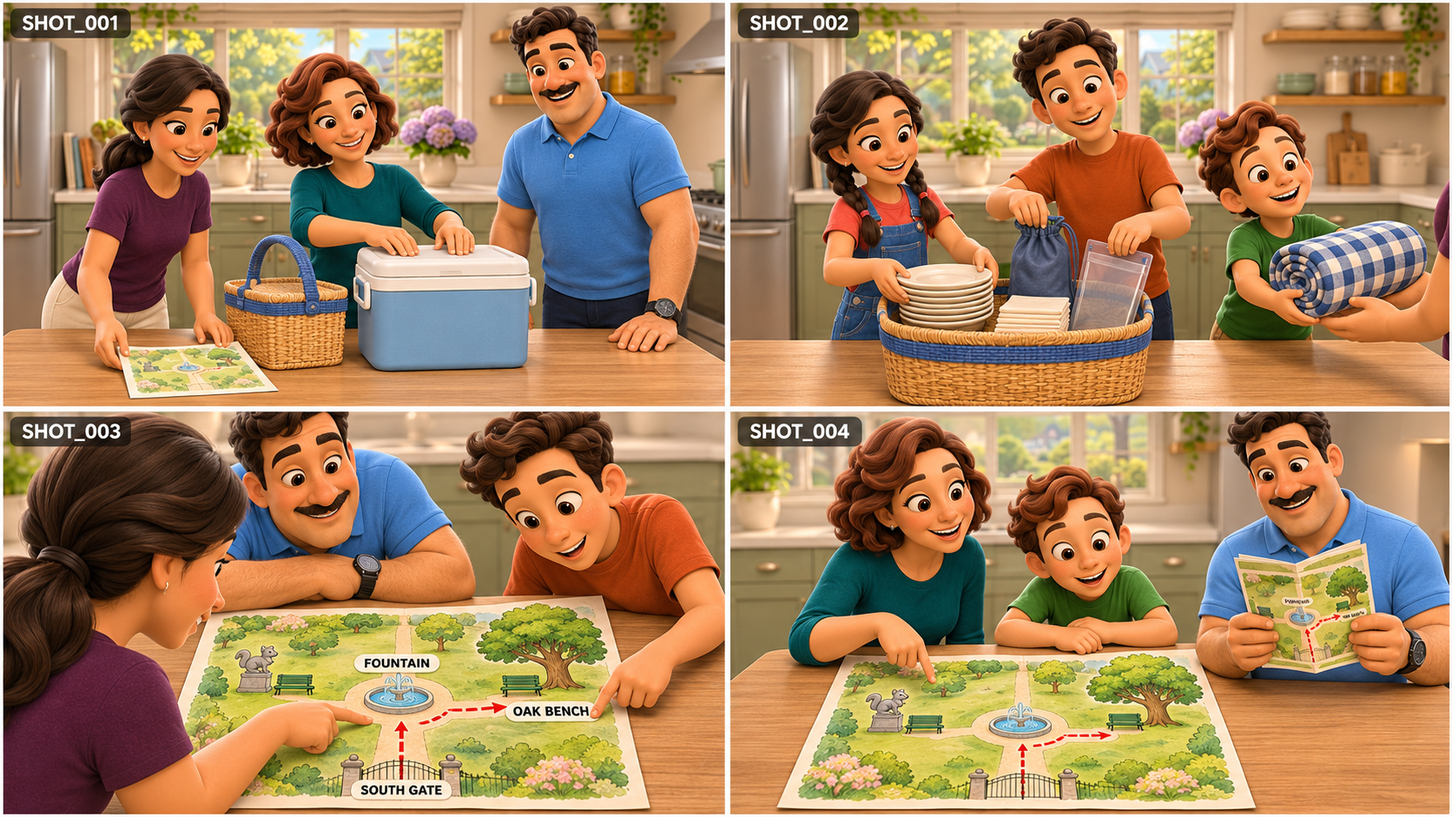
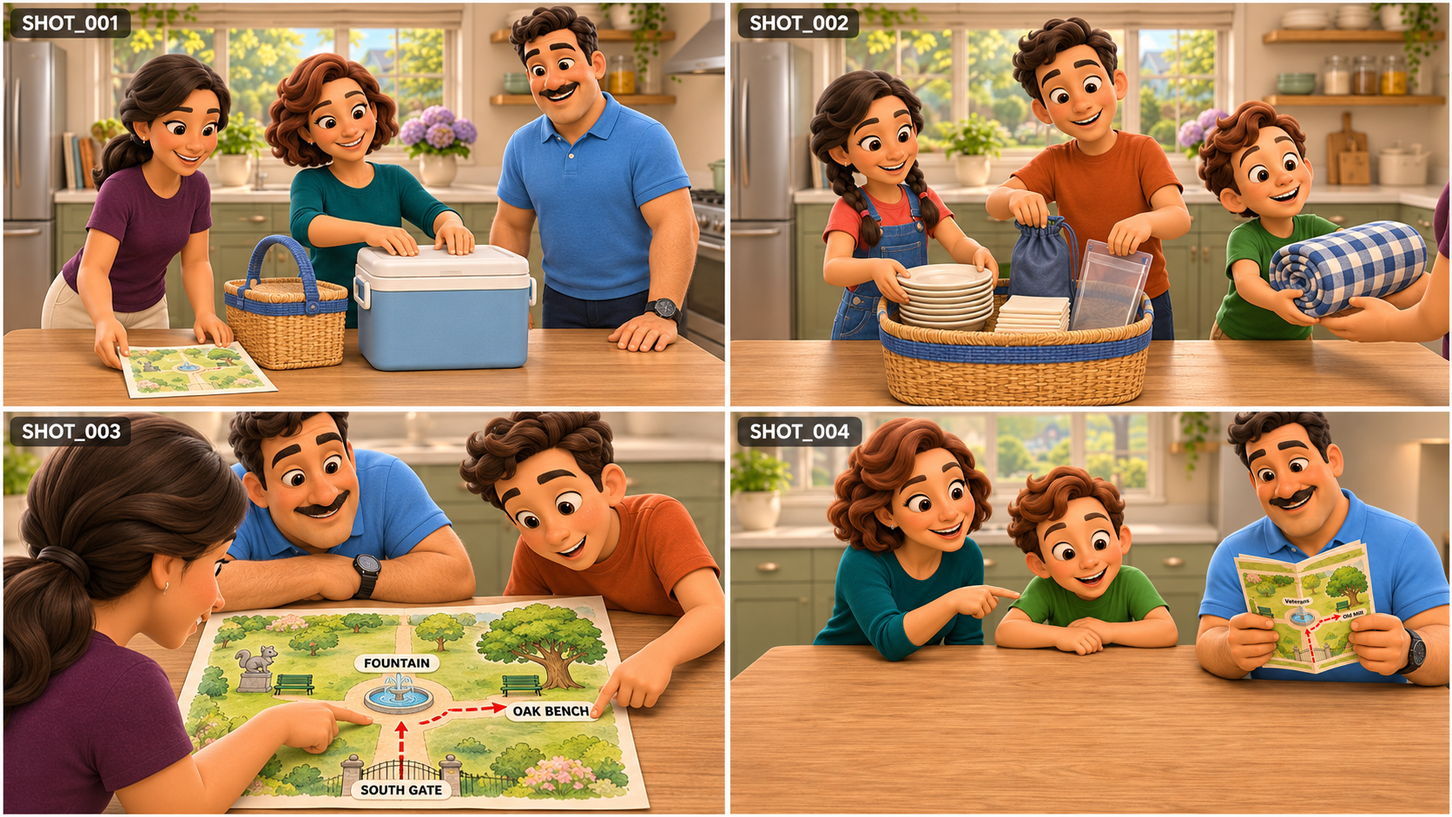
Add missing Episode 05 storyboard sheets and targeted picnic repairs

diff --git a/Episode_05/assets/storyboards/index.html b/Episode_05/assets/storyboards/index.html
@@ -1,1 +1,1 @@
-<!doctype html><html lang="en"><meta charset="utf-8"><meta name="viewport" content="width=device-width,initial-scale=1"><title>Episode 05: The Picnic Is on the WRONG Bench! | Park English | Family Adventure</title><style>body{max-width:1500px;margin:auto;padding:24px;background:#f6f3eb;color:#193c36;font:17px/1.6 system-ui}a{color:#175f86}.grid{display:grid;grid-template-columns:repeat(auto-fit,minmax(min(100%,600px),1fr));gap:24px}figure{margin:0;background:white;border:1px solid #ddd;border-radius:12px;overflow:hidden}figcaption,figure p{padding:12px}img{display:block;width:100%;height:auto}</style><h1>Episode 05: The Picnic Is on the WRONG Bench! | Park English | Family Adventure</h1><p>Written and still-image preproduction draft. Each slot is a planned 15-second editorial shot, 16:9, original warm stylized 3D and natural General American family conversation. No video or voice has been generated. Optional creator-authored practice belongs after the story. Creator visual approval and individual motion first frames remain pending.</p><p><a href="../../STORY.md">Screenplay</a> · <a href="../../STORYBOARD_INDEX.md">Shot index</a> · <a href="GENERATION_NOTES.md">Provenance</a></p><main class="grid"><figure><figcaption>BOARD_01 — SHOT_001–SHOT_004</figcaption><a href="BOARD_01.png"><img src="BOARD_01.png" loading="lazy" alt="BOARD_01 — SHOT_001–SHOT_004"></a><p>SHOT_001: A picnic beyond our gate · SHOT_002: What travels with us · SHOT_003: One place to meet · SHOT_004: A bench needs a neighbor</p></figure><figure><figcaption>BOARD_02 — SHOT_005–SHOT_008</figcaption><a href="BOARD_02.png"><img src="BOARD_02.png" loading="lazy" alt="BOARD_02 — SHOT_005–SHOT_008"></a><p>SHOT_005: Cold passengers · SHOT_006: Our direction expert · SHOT_007: Six leave together · SHOT_008: The small drawing</p></figure><figure><figcaption>BOARD_03 — SHOT_009–SHOT_012</figcaption><a href="BOARD_03.png"><img src="BOARD_03.png" loading="lazy" alt="BOARD_03 — SHOT_009–SHOT_012"></a><p>SHOT_009: A gate to somewhere new · SHOT_010: Look before the turn · SHOT_011: A short head start · SHOT_012: The sensible route</p></figure><figure><figcaption>BOARD_04 — SHOT_013–SHOT_016</figcaption><a href="BOARD_04.png"><img src="BOARD_04.png" loading="lazy" alt="BOARD_04 — SHOT_013–SHOT_016"></a><p>SHOT_013: The map takes a turn · SHOT_014: A very convincing green bench · SHOT_015: A tree is nearly everywhere · SHOT_016: The first bench wins too soon</p></figure><figure><figcaption>BOARD_05 — SHOT_017–SHOT_020</figcaption><a href="BOARD_05.png"><img src="BOARD_05.png" loading="lazy" alt="BOARD_05 — SHOT_017–SHOT_020"></a><p>SHOT_017: Three places too few · SHOT_018: The silent local expert · SHOT_019: A bench without a blanket · SHOT_020: A call would be allowed</p></figure><figure><figcaption>BOARD_06 — SHOT_021–SHOT_024</figcaption><a href="BOARD_06.png"><img src="BOARD_06.png" loading="lazy" alt="BOARD_06 — SHOT_021–SHOT_024"></a><p>SHOT_021: One color, two places · SHOT_022: A landmark is more than a seat · SHOT_023: The upside-down oak · SHOT_024: Turn the page, keep the park</p></figure><figure><figcaption>BOARD_07 — SHOT_025–SHOT_028</figcaption><a href="BOARD_07.png"><img src="BOARD_07.png" loading="lazy" alt="BOARD_07 — SHOT_025–SHOT_028"></a><p>SHOT_025: A small admission · SHOT_026: The better question · SHOT_027: Our quiet friend has a job · SHOT_028: Two landmarks agree</p></figure><figure><figcaption>BOARD_08 — SHOT_029–SHOT_032</figcaption><a href="BOARD_08.png"><img src="BOARD_08.png" loading="lazy" alt="BOARD_08 — SHOT_029–SHOT_032"></a><p>SHOT_029: Do not move the picnic · SHOT_030: No shortcuts through flowers · SHOT_031: A wave across the square · SHOT_032: Carry the useful things</p></figure><figure><figcaption>BOARD_09 — SHOT_033–SHOT_036</figcaption><a href="BOARD_09.png"><img src="BOARD_09.png" loading="lazy" alt="BOARD_09 — SHOT_033–SHOT_036"></a><p>SHOT_033: Back to a known point · SHOT_034: Face the way we came in · SHOT_035: Listen to the landmark · SHOT_036: Right means this turn</p></figure><figure><figcaption>BOARD_10 — SHOT_037–SHOT_040</figcaption><a href="BOARD_10.png"><img src="BOARD_10.png" loading="lazy" alt="BOARD_10 — SHOT_037–SHOT_040"></a><p>SHOT_037: The bench with the people · SHOT_038: Already saving places · SHOT_039: The destination is complete · SHOT_040: A helpful explanation</p></figure><figure><figcaption>BOARD_11 — SHOT_041–SHOT_044</figcaption><a href="BOARD_11.png"><img src="BOARD_11.png" loading="lazy" alt="BOARD_11 — SHOT_041–SHOT_044"></a><p>SHOT_041: Good information, better directions · SHOT_042: Both sides of the misunderstanding · SHOT_043: Map gets a clear home · SHOT_044: Food can wait a moment</p></figure><figure><figcaption>BOARD_12 — SHOT_045–SHOT_048</figcaption><a href="BOARD_12.png"><img src="BOARD_12.png" loading="lazy" alt="BOARD_12 — SHOT_045–SHOT_048"></a><p>SHOT_045: A short wash trip together · SHOT_046: Our picnic returns once · SHOT_047: Six places, fixed and comfortable · SHOT_048: Room for everyone</p></figure><figure><figcaption>BOARD_13 — SHOT_049–SHOT_052</figcaption><a href="BOARD_13.png"><img src="BOARD_13.png" loading="lazy" alt="BOARD_13 — SHOT_049–SHOT_052"></a><p>SHOT_049: The clean plates arrive · SHOT_050: Napkins know where to go · SHOT_051: The cold lid opens · SHOT_052: One parcel for each person</p></figure><figure><figcaption>BOARD_14 — SHOT_053–SHOT_056</figcaption><a href="BOARD_14.png"><img src="BOARD_14.png" loading="lazy" alt="BOARD_14 — SHOT_053–SHOT_056"></a><p>SHOT_053: Water follows the same plan · SHOT_054: Wrappers stay with us · SHOT_055: The first quiet bite · SHOT_056: No race to the best shade</p></figure><figure><figcaption>BOARD_15 — SHOT_057–SHOT_060</figcaption><a href="BOARD_15.png"><img src="BOARD_15.png" loading="lazy" alt="BOARD_15 — SHOT_057–SHOT_060"></a><p>SHOT_057: What the other bench taught us · SHOT_058: A kind correction travels farther · SHOT_059: A map needs a listener · SHOT_060: The oak gets no medal</p></figure><figure><figcaption>BOARD_16 — SHOT_061–SHOT_064</figcaption><a href="BOARD_16.png"><img src="BOARD_16.png" loading="lazy" alt="BOARD_16 — SHOT_061–SHOT_064"></a><p>SHOT_061: A picnic is not a test · SHOT_062: Another sort of good guide · SHOT_063: The tiny tree grows up · SHOT_064: A place everyone can describe</p></figure><figure><figcaption>BOARD_17 — SHOT_065–SHOT_068</figcaption><a href="BOARD_17.png"><img src="BOARD_17.png" loading="lazy" alt="BOARD_17 — SHOT_065–SHOT_068"></a><p>SHOT_065: The fountain keeps its voice · SHOT_066: The last bites take time · SHOT_067: The basket changes jobs · SHOT_068: Leave the shade as we found it</p></figure><figure><figcaption>BOARD_18 — SHOT_069–SHOT_072</figcaption><p>Illustration pending.</p><p>SHOT_069: Fold the meeting place · SHOT_070: One last landmark check · SHOT_071: A picture with the top marked · SHOT_072: The quiet guide receives thanks</p></figure><figure><figcaption>BOARD_19 — SHOT_073–SHOT_076</figcaption><p>Illustration pending.</p><p>SHOT_073: Two benches, one good memory · SHOT_074: Through the gate together · SHOT_075: The correct kind of shortcut · SHOT_076: Home with a small story</p></figure><figure><figcaption>BOARD_20 — SHOT_077–SHOT_080</figcaption><a href="BOARD_20.png"><img src="BOARD_20.png" loading="lazy" alt="BOARD_20 — SHOT_077–SHOT_080"></a><p>SHOT_077: The second useful job · SHOT_078: One map, the right way up · SHOT_079: Tomorrow can use a simple question · SHOT_080: The bench with everyone</p></figure></main><h2>Five clean environments</h2><section class="grid"><figure><figcaption>HOME_KITCHEN</figcaption><img src="../environments/HOME_KITCHEN.jpg" loading="lazy" alt="HOME_KITCHEN"></figure><figure><figcaption>PARK_GATE</figcaption><img src="../environments/PARK_GATE.png" loading="lazy" alt="PARK_GATE"></figure><figure><figcaption>PARK_FOUNTAIN</figcaption><img src="../environments/PARK_FOUNTAIN.png" loading="lazy" alt="PARK_FOUNTAIN"></figure><figure><figcaption>PARK_BENCH_FORK</figcaption><img src="../environments/PARK_BENCH_FORK.png" loading="lazy" alt="PARK_BENCH_FORK"></figure><figure><figcaption>PARK_OAK_PICNIC</figcaption><img src="../environments/PARK_OAK_PICNIC.png" loading="lazy" alt="PARK_OAK_PICNIC"></figure></section><h2>Permanent cast</h2><p><a href="../characters/">14 unchanged previews</a></p><img src="../characters/ADULTS_lineup.jpg" alt="Original Dan, Maya and Nina"><img src="../characters/CHILDREN_lineup.jpg" alt="Original Leo, Ella and Max"></html>
+<!doctype html><html lang="en"><meta charset="utf-8"><meta name="viewport" content="width=device-width,initial-scale=1"><title>Episode 05: The Picnic Is on the WRONG Bench! | Park English | Family Adventure</title><style>body{max-width:1500px;margin:auto;padding:24px;background:#f6f3eb;color:#193c36;font:17px/1.6 system-ui}a{color:#175f86}.grid{display:grid;grid-template-columns:repeat(auto-fit,minmax(min(100%,600px),1fr));gap:24px}figure{margin:0;background:white;border:1px solid #ddd;border-radius:12px;overflow:hidden}figcaption,figure p{padding:12px}img{display:block;width:100%;height:auto}</style><h1>Episode 05: The Picnic Is on the WRONG Bench! | Park English | Family Adventure</h1><p>Written and still-image preproduction draft. Each slot is a planned 15-second editorial shot, 16:9, original warm stylized 3D and natural General American family conversation. No video or voice has been generated. Optional creator-authored practice belongs after the story. Creator visual approval and individual motion first frames remain pending.</p><p><a href="../../STORY.md">Screenplay</a> · <a href="../../STORYBOARD_INDEX.md">Shot index</a> · <a href="GENERATION_NOTES.md">Provenance</a></p><main class="grid"><figure><figcaption>BOARD_01 — SHOT_001–SHOT_004</figcaption><a href="BOARD_01.png"><img src="BOARD_01.png" loading="lazy" alt="BOARD_01 — SHOT_001–SHOT_004"></a><p>SHOT_001: A picnic beyond our gate · SHOT_002: What travels with us · SHOT_003: One place to meet · SHOT_004: A bench needs a neighbor</p></figure><figure><figcaption>BOARD_02 — SHOT_005–SHOT_008</figcaption><a href="BOARD_02.png"><img src="BOARD_02.png" loading="lazy" alt="BOARD_02 — SHOT_005–SHOT_008"></a><p>SHOT_005: Cold passengers · SHOT_006: Our direction expert · SHOT_007: Six leave together · SHOT_008: The small drawing</p></figure><figure><figcaption>BOARD_03 — SHOT_009–SHOT_012</figcaption><a href="BOARD_03.png"><img src="BOARD_03.png" loading="lazy" alt="BOARD_03 — SHOT_009–SHOT_012"></a><p>SHOT_009: A gate to somewhere new · SHOT_010: Look before the turn · SHOT_011: A short head start · SHOT_012: The sensible route</p></figure><figure><figcaption>BOARD_04 — SHOT_013–SHOT_016</figcaption><a href="BOARD_04.png"><img src="BOARD_04.png" loading="lazy" alt="BOARD_04 — SHOT_013–SHOT_016"></a><p>SHOT_013: The map takes a turn · SHOT_014: A very convincing green bench · SHOT_015: A tree is nearly everywhere · SHOT_016: The first bench wins too soon</p></figure><figure><figcaption>BOARD_05 — SHOT_017–SHOT_020</figcaption><a href="BOARD_05.png"><img src="BOARD_05.png" loading="lazy" alt="BOARD_05 — SHOT_017–SHOT_020"></a><p>SHOT_017: Three places too few · SHOT_018: The silent local expert · SHOT_019: A bench without a blanket · SHOT_020: A call would be allowed</p></figure><figure><figcaption>BOARD_06 — SHOT_021–SHOT_024</figcaption><a href="BOARD_06.png"><img src="BOARD_06.png" loading="lazy" alt="BOARD_06 — SHOT_021–SHOT_024"></a><p>SHOT_021: One color, two places · SHOT_022: A landmark is more than a seat · SHOT_023: The upside-down oak · SHOT_024: Turn the page, keep the park</p></figure><figure><figcaption>BOARD_07 — SHOT_025–SHOT_028</figcaption><a href="BOARD_07.png"><img src="BOARD_07.png" loading="lazy" alt="BOARD_07 — SHOT_025–SHOT_028"></a><p>SHOT_025: A small admission · SHOT_026: The better question · SHOT_027: Our quiet friend has a job · SHOT_028: Two landmarks agree</p></figure><figure><figcaption>BOARD_08 — SHOT_029–SHOT_032</figcaption><a href="BOARD_08.png"><img src="BOARD_08.png" loading="lazy" alt="BOARD_08 — SHOT_029–SHOT_032"></a><p>SHOT_029: Do not move the picnic · SHOT_030: No shortcuts through flowers · SHOT_031: A wave across the square · SHOT_032: Carry the useful things</p></figure><figure><figcaption>BOARD_09 — SHOT_033–SHOT_036</figcaption><a href="BOARD_09.png"><img src="BOARD_09.png" loading="lazy" alt="BOARD_09 — SHOT_033–SHOT_036"></a><p>SHOT_033: Back to a known point · SHOT_034: Face the way we came in · SHOT_035: Listen to the landmark · SHOT_036: Right means this turn</p></figure><figure><figcaption>BOARD_10 — SHOT_037–SHOT_040</figcaption><a href="BOARD_10.png"><img src="BOARD_10.png" loading="lazy" alt="BOARD_10 — SHOT_037–SHOT_040"></a><p>SHOT_037: The bench with the people · SHOT_038: Already saving places · SHOT_039: The destination is complete · SHOT_040: A helpful explanation</p></figure><figure><figcaption>BOARD_11 — SHOT_041–SHOT_044</figcaption><a href="BOARD_11.png"><img src="BOARD_11.png" loading="lazy" alt="BOARD_11 — SHOT_041–SHOT_044"></a><p>SHOT_041: Good information, better directions · SHOT_042: Both sides of the misunderstanding · SHOT_043: Map gets a clear home · SHOT_044: Food can wait a moment</p></figure><figure><figcaption>BOARD_12 — SHOT_045–SHOT_048</figcaption><a href="BOARD_12.png"><img src="BOARD_12.png" loading="lazy" alt="BOARD_12 — SHOT_045–SHOT_048"></a><p>SHOT_045: A short wash trip together · SHOT_046: Our picnic returns once · SHOT_047: Six places, fixed and comfortable · SHOT_048: Room for everyone</p></figure><figure><figcaption>BOARD_13 — SHOT_049–SHOT_052</figcaption><a href="BOARD_13.png"><img src="BOARD_13.png" loading="lazy" alt="BOARD_13 — SHOT_049–SHOT_052"></a><p>SHOT_049: The clean plates arrive · SHOT_050: Napkins know where to go · SHOT_051: The cold lid opens · SHOT_052: One parcel for each person</p></figure><figure><figcaption>BOARD_14 — SHOT_053–SHOT_056</figcaption><a href="BOARD_14.png"><img src="BOARD_14.png" loading="lazy" alt="BOARD_14 — SHOT_053–SHOT_056"></a><p>SHOT_053: Water follows the same plan · SHOT_054: Wrappers stay with us · SHOT_055: The first quiet bite · SHOT_056: No race to the best shade</p></figure><figure><figcaption>BOARD_15 — SHOT_057–SHOT_060</figcaption><a href="BOARD_15.png"><img src="BOARD_15.png" loading="lazy" alt="BOARD_15 — SHOT_057–SHOT_060"></a><p>SHOT_057: What the other bench taught us · SHOT_058: A kind correction travels farther · SHOT_059: A map needs a listener · SHOT_060: The oak gets no medal</p></figure><figure><figcaption>BOARD_16 — SHOT_061–SHOT_064</figcaption><a href="BOARD_16.png"><img src="BOARD_16.png" loading="lazy" alt="BOARD_16 — SHOT_061–SHOT_064"></a><p>SHOT_061: A picnic is not a test · SHOT_062: Another sort of good guide · SHOT_063: The tiny tree grows up · SHOT_064: A place everyone can describe</p></figure><figure><figcaption>BOARD_17 — SHOT_065–SHOT_068</figcaption><a href="BOARD_17.png"><img src="BOARD_17.png" loading="lazy" alt="BOARD_17 — SHOT_065–SHOT_068"></a><p>SHOT_065: The fountain keeps its voice · SHOT_066: The last bites take time · SHOT_067: The basket changes jobs · SHOT_068: Leave the shade as we found it</p></figure><figure><figcaption>BOARD_18 — SHOT_069–SHOT_072</figcaption><a href="BOARD_18.png"><img src="BOARD_18.png" loading="lazy" alt="BOARD_18 — SHOT_069–SHOT_072"></a><p>SHOT_069: Fold the meeting place · SHOT_070: One last landmark check · SHOT_071: A picture with the top marked · SHOT_072: The quiet guide receives thanks</p></figure><figure><figcaption>BOARD_19 — SHOT_073–SHOT_076</figcaption><a href="BOARD_19.png"><img src="BOARD_19.png" loading="lazy" alt="BOARD_19 — SHOT_073–SHOT_076"></a><p>SHOT_073: Two benches, one good memory · SHOT_074: Through the gate together · SHOT_075: The correct kind of shortcut · SHOT_076: Home with a small story</p></figure><figure><figcaption>BOARD_20 — SHOT_077–SHOT_080</figcaption><a href="BOARD_20.png"><img src="BOARD_20.png" loading="lazy" alt="BOARD_20 — SHOT_077–SHOT_080"></a><p>SHOT_077: The second useful job · SHOT_078: One map, the right way up · SHOT_079: Tomorrow can use a simple question · SHOT_080: The bench with everyone</p></figure></main><h2>Five clean environments</h2><section class="grid"><figure><figcaption>HOME_KITCHEN</figcaption><img src="../environments/HOME_KITCHEN.jpg" loading="lazy" alt="HOME_KITCHEN"></figure><figure><figcaption>PARK_GATE</figcaption><img src="../environments/PARK_GATE.png" loading="lazy" alt="PARK_GATE"></figure><figure><figcaption>PARK_FOUNTAIN</figcaption><img src="../environments/PARK_FOUNTAIN.png" loading="lazy" alt="PARK_FOUNTAIN"></figure><figure><figcaption>PARK_BENCH_FORK</figcaption><img src="../environments/PARK_BENCH_FORK.png" loading="lazy" alt="PARK_BENCH_FORK"></figure><figure><figcaption>PARK_OAK_PICNIC</figcaption><img src="../environments/PARK_OAK_PICNIC.png" loading="lazy" alt="PARK_OAK_PICNIC"></figure></section><h2>Permanent cast</h2><p><a href="../characters/">14 unchanged previews</a></p><img src="../characters/ADULTS_lineup.jpg" alt="Original Dan, Maya and Nina"><img src="../characters/CHILDREN_lineup.jpg" alt="Original Leo, Ella and Max"></html>

diff --git a/artwork_qa/label_board.py b/artwork_qa/label_board.py
@@ -1,0 +1,21 @@
+"""Compose four generated scene quadrants with deterministic shot labels. Preserve originals."""
+import argparse, hashlib, json
+from pathlib import Path
+from PIL import Image, ImageDraw, ImageFont
+p=argparse.ArgumentParser()
+p.add_argument('source'); p.add_argument('output'); p.add_argument('first_shot',type=int)
+a=p.parse_args()
+src=Image.open(a.source).convert('RGB'); w,h=src.size
+out=Image.new('RGB',(2560,1440),(25,28,32))
+font=ImageFont.truetype('/usr/share/fonts/truetype/dejavu/DejaVuSans-Bold.ttf',24)
+for i,(x,y) in enumerate(((0,0),(1,0),(0,1),(1,1))):
+    # Trim only the central generated gutter, keeping every scene intact.
+    box=(x*(w//2)+3,y*(h//2)+3,(x+1)*(w//2)-3,(y+1)*(h//2)-3)
+    panel=src.crop(box).resize((1272,674),Image.Resampling.LANCZOS)
+    px,py=x*1280+4,y*720+4
+    out.paste(panel,(px,py+38))
+    ImageDraw.Draw(out).text((px+12,py+3),f'SHOT_{a.first_shot+i:03d}',fill='white',font=font)
+Path(a.output).parent.mkdir(parents=True,exist_ok=True)
+out.save(a.output,format='PNG',optimize=True)
+with Image.open(a.output) as check: check.verify()
+print(json.dumps({'path':a.output,'size':[2560,1440],'sha256':hashlib.sha256(Path(a.output).read_bytes()).hexdigest(),'source':a.source}))

diff --git a/tests/test_production_handoff.py b/tests/test_production_handoff.py
@@ -34,11 +34,20 @@ class ProductionHandoffTests(unittest.TestCase):
             self.assertTrue(all((ROOT / p).is_file() for p in refs["character_lineup"]))
             self.assertTrue(all((ROOT / p).is_file() for p in refs["overlay_candidates"]))
             if not refs["board_exists"]:
+                self.assertFalse((ROOT / refs["board"]).is_file())
                 missing.add((row["episode"], row["board_name"]))
                 self.assertEqual(row["board_visual_status"], "missing")
             else:
+                self.assertTrue((ROOT / refs["board"]).is_file())
                 self.assertEqual(row["board_visual_status"], "unapproved_illustrated_draft")
-        self.assertEqual(len(missing), 30)
+        expected_missing = {
+            (f"{episode:02}", f"BOARD_{board:02}.png")
+            for episode in range(1, 11)
+            for board in range(1, 21)
+            if not (ROOT / f"Episode_{episode:02}" / "assets/storyboards"
+                    / f"BOARD_{board:02}.png").is_file()
+        }
+        self.assertEqual(missing, expected_missing)
 
     def test_every_subtitle_cue_is_assigned_to_exact_speaker(self):
         for row in self.records:

diff --git a/IMAGE_QA_REPORT.md b/IMAGE_QA_REPORT.md
@@ -1,0 +1,24 @@
+# Image generation and visual QA report
+
+## First recoverable checkpoint
+
+Fresh `main` base: `0473f659e182eb570608a7ed05b36430964a262a`. Branch: `codex/complete-200-storyboards-and-visual-fixes`.
+
+This checkpoint saves two genuine new Episode05 sheets, BOARD_18/SHOT_069–072 and BOARD_19/SHOT_073–076, plus localized repairs to BOARD_01/004 (duplicate table map) and BOARD_13/052 (seventh sandwich and extra Dan). Episode05 has20/20 actual sheets. Other episode batches are in progress and are recorded in later commits.
+
+Tool actually used: `image_gen.imagegen`, with original local cast lineups and park/kitchen image references. Its underlying model and per-call costs are not exposed. No external paid provider, placeholders, voices or video were used. Original outputs remain under `/workspace/generated_images`.
+
+For credit economy, one2x2 sheet was generated per new-board request, then composed to2560×1440 with deterministic shot labels using [label_board.py](artwork_qa/label_board.py). This differs from the preferred per-panel generation workflow. Single-panel repairs preserve the other three original panels.
+
+Exact requests and provenance (original/new hashes, source output filename, reference files, settings, actual AI inspection findings, PNG integrity and unresolved issues):
+
+- [BOARD18 record](artwork_qa/records/ep05-board18.json) and [prompt](artwork_qa/prompts/ep05-board18.txt).
+- [BOARD19 record](artwork_qa/records/ep05-board19.json) and [prompt](artwork_qa/prompts/ep05-board19.txt).
+- [BOARD01 correction](artwork_qa/records/ep05-board01-correction.json) and [prompt](artwork_qa/prompts/ep05-shot004-correction.txt).
+- [BOARD13 correction](artwork_qa/records/ep05-board13-correction.json) and [prompt](artwork_qa/prompts/ep05-board13-correction.txt).
+
+Episode05 full structural checker passes. Broader validation and generation are in progress. One existing test incorrectly hard-coded30missing boards; its inventory assertion now compares all200 expected paths with actual files and exported status, retaining reference and approval checks. The initial failure is evidence of new artwork rather than a missing dependency.
+
+All images remain unapproved drafts. Exact map lettering, occluded plate counts, fixed seating, identity/anatomy and documented old/new visual defects remain separately tracked. No creator acceptance, approved motion first frame or completed correction pass is claimed. Git commit IDs are obtained with `git log --follow -- <board path>`; links are added at final handoff.
+
+GitHub API requests currently return `Forbidden`. Git pushing is tested separately.

diff --git a/Episode_05/assets/storyboards/GENERATION_NOTES.md b/Episode_05/assets/storyboards/GENERATION_NOTES.md
@@ -38,3 +38,10 @@ The already-submitted BOARD17–20 batch then returned17 and20 but failed with H
 ## Acceptance limits
 
 The unchanged cast previews preserve the source identities; generated panels vary in likeness, exact poses, seats, props and counts. The factual corrections above remain required before creator visual acceptance or individual motion first-frame approval. [CONTINUITY.md](../../CONTINUITY.md), [exact map](../overlays/PARK_MAP.svg) and [position diagram](../PICNIC_positions.svg) govern corrections. A four-panel sheet is not a single motion input. Original full-resolution identity/home masters remain owner-controlled. No performed voices, animation, animatic, approved film or completed reusable motion factory is claimed.
+
+
+## Image-work checkpoint — 2026-11-15
+
+BOARD_18 and BOARD_19 are now genuine new reference-guided image_gen.imagegen outputs, covering SHOT_069–076. The episode now has20/20 actual boards. The prior18/20 description and quota evidence above are historical. Both new outputs were AI pixel-inspected; creator approval remains pending. Original source files, inputs, exact prompts, SHA-256 hashes, deterministic labels and remaining concerns are in the root IMAGE_QA_REPORT.md and artwork_qa records. No underlying tool model name is exposed.
+
+Targeted repairs so far: BOARD_01/004 duplicate tabletop map removed, other three panels retained; BOARD_13/052 seventh sandwich removed and unscripted Dan removed, six parcels on six plates remain. Other known defects, including050duplicateLeo, vessels/portions, fixed seats and precise map lettering, remain open. File completion is not visual acceptance. No voice/video generation.

diff --git a/Episode_05/CHECKPOINT.md b/Episode_05/CHECKPOINT.md
@@ -26,3 +26,10 @@ Shared image generation returned HTTP429 `usage_limit_reached` with daily quota 
 - Independently verified all18 existing board PNGs plus four new environment PNGs for PNG structure/checksums; all six editable SVGs and exact required text passed.
 - Fourteen cast JPGs and the shared kitchen are byte-identical to Episode01.
 - Local links:373 existing targets checked; only missing targets are BOARD18/19. These intentional planned links remain unresolved until actual art exists.
+
+
+## Image-work checkpoint — 2026-11-15
+
+BOARD_18 and BOARD_19 are now genuine new reference-guided image_gen.imagegen outputs, covering SHOT_069–076. The episode now has20/20 actual boards. The prior18/20 description and quota evidence above are historical. Both new outputs were AI pixel-inspected; creator approval remains pending. Original source files, inputs, exact prompts, SHA-256 hashes, deterministic labels and remaining concerns are in the root IMAGE_QA_REPORT.md and artwork_qa records. No underlying tool model name is exposed.
+
+Targeted repairs so far: BOARD_01/004 duplicate tabletop map removed, other three panels retained; BOARD_13/052 seventh sandwich removed and unscripted Dan removed, six parcels on six plates remain. Other known defects, including050duplicateLeo, vessels/portions, fixed seats and precise map lettering, remain open. File completion is not visual acceptance. No voice/video generation.

diff --git a/Episode_05/STORYBOARD_INDEX.md b/Episode_05/STORYBOARD_INDEX.md
@@ -21,8 +21,8 @@ Twenty four-panel sheet slots map all 80 story shots. Generated images are compo
 | BOARD_15 | SHOT_057–SHOT_060 | What the other bench taught us | [BOARD_15.png](assets/storyboards/BOARD_15.png) | Illustrated draft; creator approval pending |
 | BOARD_16 | SHOT_061–SHOT_064 | A picnic is not a test | [BOARD_16.png](assets/storyboards/BOARD_16.png) | Illustrated draft; creator approval pending |
 | BOARD_17 | SHOT_065–SHOT_068 | The fountain keeps its voice | [BOARD_17.png](assets/storyboards/BOARD_17.png) | Illustrated draft; creator approval pending |
-| BOARD_18 | SHOT_069–SHOT_072 | Fold the meeting place | [BOARD_18.png](assets/storyboards/BOARD_18.png) | Illustration pending; creator approval pending |
-| BOARD_19 | SHOT_073–SHOT_076 | Two benches, one good memory | [BOARD_19.png](assets/storyboards/BOARD_19.png) | Illustration pending; creator approval pending |
+| BOARD_18 | SHOT_069–SHOT_072 | Fold the meeting place | [BOARD_18.png](assets/storyboards/BOARD_18.png) | Illustrated draft; creator approval pending |
+| BOARD_19 | SHOT_073–SHOT_076 | Two benches, one good memory | [BOARD_19.png](assets/storyboards/BOARD_19.png) | Illustrated draft; creator approval pending |
 | BOARD_20 | SHOT_077–SHOT_080 | The second useful job | [BOARD_20.png](assets/storyboards/BOARD_20.png) | Illustrated draft; creator approval pending |
 
 ## All 80 opening-frame briefs

diff --git a/Episode_05/STORYBOARD_GALLERY.md b/Episode_05/STORYBOARD_GALLERY.md
@@ -108,13 +108,13 @@ SHOT_065: The fountain keeps its voice · SHOT_066: The last bites take time · 
 
 ## BOARD_18 — SHOT_069–SHOT_072
 
-Illustration pending.
+![BOARD_18 — SHOT_069–SHOT_072](assets/storyboards/BOARD_18.png)
 
 SHOT_069: Fold the meeting place · SHOT_070: One last landmark check · SHOT_071: A picture with the top marked · SHOT_072: The quiet guide receives thanks
 
 ## BOARD_19 — SHOT_073–SHOT_076
 
-Illustration pending.
+![BOARD_19 — SHOT_073–SHOT_076](assets/storyboards/BOARD_19.png)
 
 SHOT_073: Two benches, one good memory · SHOT_074: Through the gate together · SHOT_075: The correct kind of shortcut · SHOT_076: Home with a small story
 
